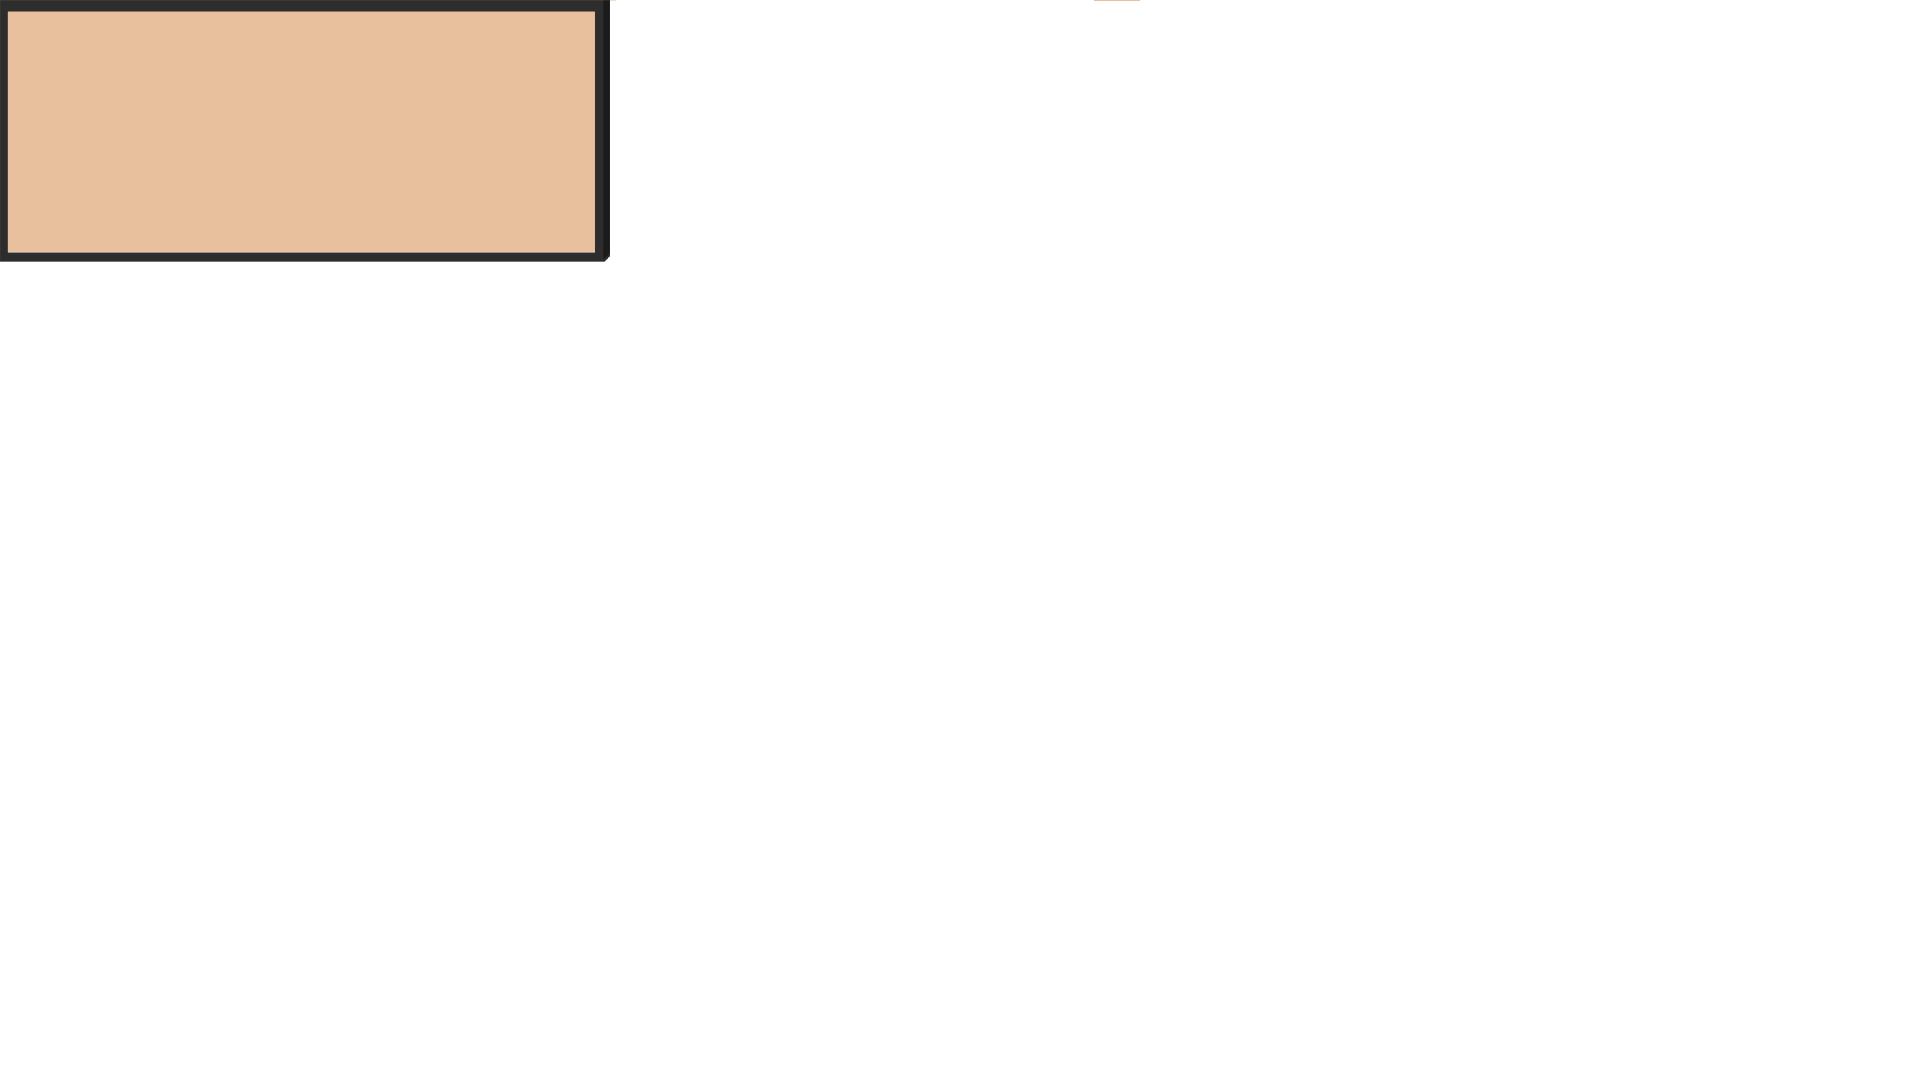
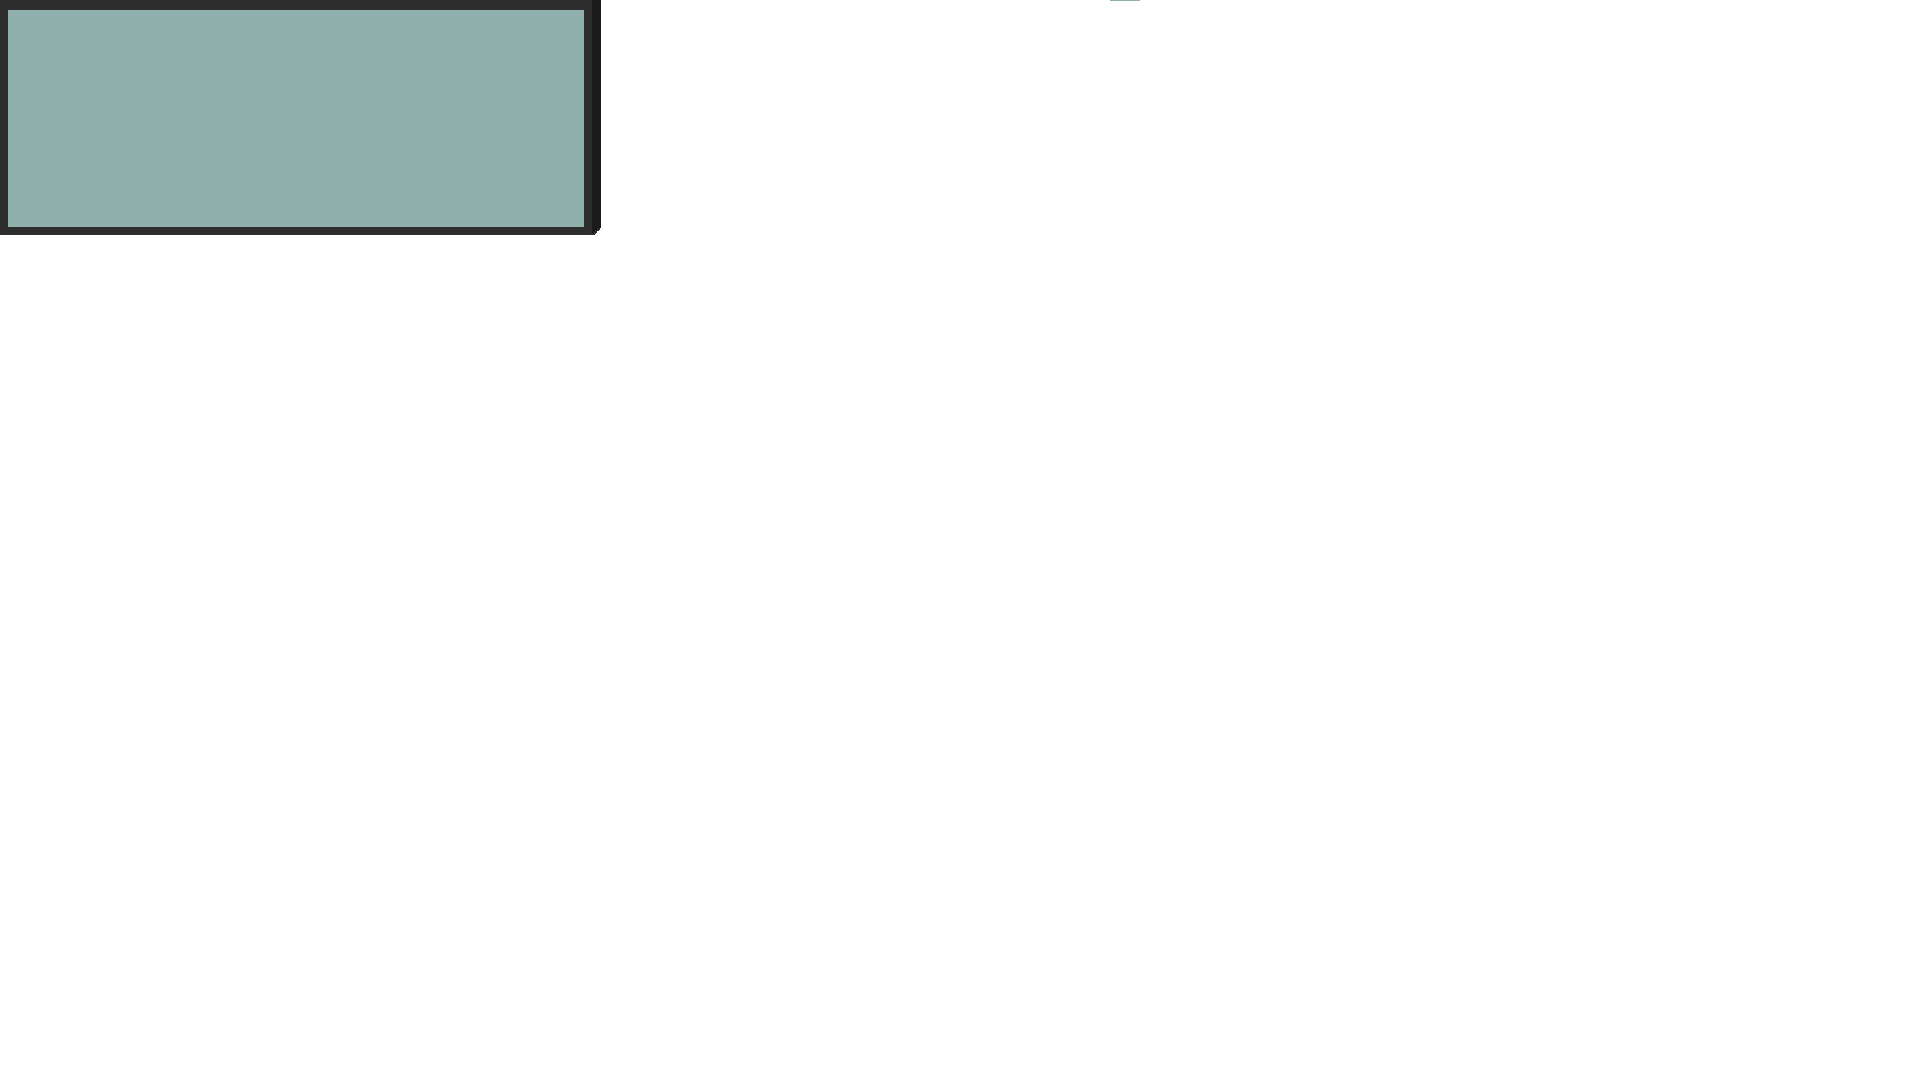
dialog box improvement

Changed region(s): [[0.0, 0.0, 0.3438, 0.2444]]

diff --git a/landingPage/js/engine.js b/landingPage/js/engine.js
@@ -127,17 +127,18 @@ class Engine{
 	handleInteraction(NPC, interactionStep){
 		console.log('beep')
 		switch(NPC.name){
-			case "tBro":
+			case "Mysterious Stranger":
 				this.dialogBox.active = true
+				this.dialogBox.name = NPC.name
 				switch(interactionStep){
 					case 1 :
-						this.dialogBox.dialogMsg = "hey there champ!"
+						this.dialogBox.dialogMsg = ["hey there champ!"]
 						break;
 					case 2 :
-						this.dialogBox.dialogMsg = "Welcome to town, theres not much to do yet, \n but stay tuned because I hear big Drewski is coming to town"
+						this.dialogBox.dialogMsg = ["Welcome to town, theres not much to do yet," , "but stay tuned because I hear big Drewski is coming to town"]
 						break;
 					case 3 :
-						this.dialogBox.dialogMsg = "See you around!"
+						this.dialogBox.dialogMsg = ["See you around!"]
 						break;
 				} //\n I hear people drop spare change when they leave the market
 
@@ -188,10 +189,23 @@ class Engine{
 
 	drawDialog(){
 		var context = this.canvas.getContext('2d')
-		context.font = "15px Comic Sans MS";
-			context.fillStyle = "#00ff15";
+		
+			
 			var transXY = this.database.translateCoordinates(false, -0.40, -0.6)
-            context.fillText(this.dialogBox.dialogMsg, transXY.transX, transXY.transY)
+			var yinc = 0;
+			context.font = "20px Comic Sans MS";
+			context.fillStyle = "#00ff00"
+			context.fillText(this.dialogBox.name + ":", transXY.transX, transXY.transY - 30);
+			this.NPCs.forEach(npc => {if(npc.name == this.dialogBox.name){
+				npc.sprites.draw("default", context, transXY.transX - 25, transXY.transY, "");
+			}
+		    })
+			context.font = "15px Comic Sans MS";
+			context.fillStyle = "#00ff15";
+			this.dialogBox.dialogMsg.forEach(line => {
+				context.fillText(line, transXY.transX, transXY.transY + yinc);
+				yinc += 30;
+			});            
 	}
 	
 }

diff --git a/landingPage/js/main.js b/landingPage/js/main.js
@@ -85,7 +85,7 @@ loadImage('../assets/character.png')
     tutorialBro.sprites = tutorialBroSprites;
     tutorialBro.active = true
     tutorialBro.isMoving = false
-    tutorialBro.name = "tBro"
+    tutorialBro.name = "Mysterious Stranger"
 
     var blueHairBroSprites = new SpriteSheet(image, 64, 64);
     blueHairBroSprites.define("default", 0,2);
